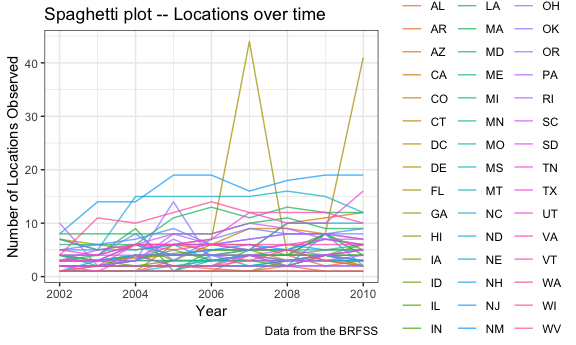
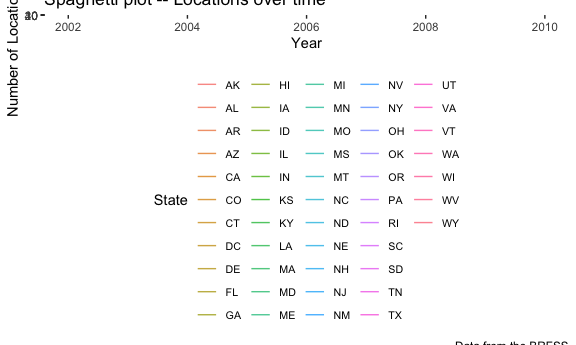
legend text size change -- problem 1

diff --git a/p8105_hw3_eas2297.md b/p8105_hw3_eas2297.md
@@ -100,7 +100,7 @@ brfss_clean %>%
     caption = "Data from the BRFSS",
     color = "State"
   ) + 
-  theme(legend.position = "right")
+  theme(legend.text=element_text(size = 8))
 ```
 
 <img src="p8105_hw3_eas2297_files/figure-gfm/unnamed-chunk-4-1.png" width="90%" />
@@ -151,9 +151,9 @@ brfss_clean %>%
     x = "Year (2000s)",
     y = "Average proportion of response",
     caption = "Data from the BRFSS",
-    color = ""
+    color = "State"
   ) +
-  theme(legend.position = "right")
+  theme(legend.text=element_text(size = 8))
 ```
 
 <img src="p8105_hw3_eas2297_files/figure-gfm/unnamed-chunk-6-1.png" width="90%" />
